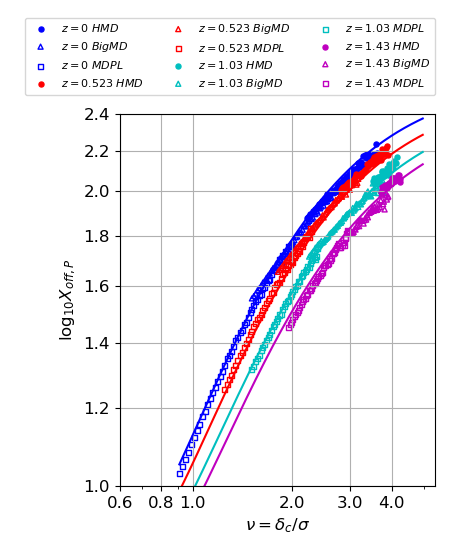
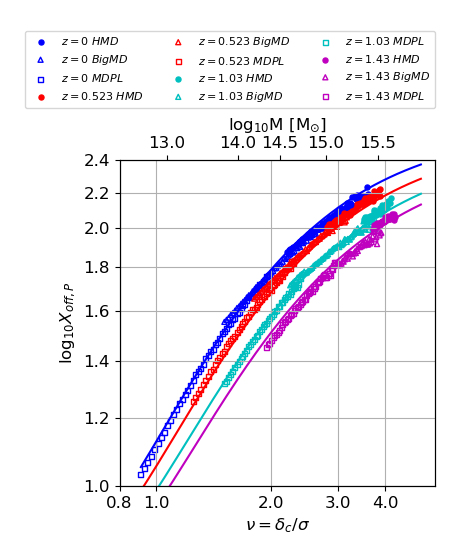
fixing mass axis in xoffp-sigma relation

diff --git a/physical/mean_relations/relations_xoff_simult.py b/physical/mean_relations/relations_xoff_simult.py
@@ -20,6 +20,7 @@ import matplotlib
 matplotlib.use('Agg')
 import matplotlib.pyplot as plt
 from matplotlib.ticker import ScalarFormatter
+from matplotlib.ticker import NullFormatter
 import astropy.units as u
 import astropy.constants as cc
 import astropy.io.fits as fits
@@ -289,17 +290,49 @@ def Xoff_log(x):
 
 ax1.set_xscale('log')
 ax1.set_yscale('log')
-ax1.set_xticks([0.6,0.8,1,2,3,4])
+ax1.set_xlim(left=0.8)
+ax1.set_xticks([0.8,1,2,3,4])
 ax1.set_yticks([1.0,1.2,1.4,1.6,1.8,2.0,2.2,2.4])
 ax1.set_ylim(1.0,2.4)
+
+h=cosmo.Hz(z=0)/100
+dc0 = peaks.collapseOverdensity(z = 0)
+def Mass_peak(x):
+    r=cosmo.sigma(dc0/x,z=0,inverse=True)
+    M=peaks.lagrangianM(r)/h
+    return np.log10(M)
+
+def peak_mass(x):
+    M=10**x
+    r=peaks.lagrangianR(M*h)
+    sigma=cosmo.sigma(r,z=0)
+    nu=dc/sigma
+    return nu
 
 ax1.xaxis.set_major_formatter(ScalarFormatter())
 ax1.yaxis.set_major_formatter(ScalarFormatter())
 ax1.ticklabel_format(axis='both', style='plain')
 
-ax1.legend(fontsize=8,bbox_to_anchor=(-0.3, 1.05, 1.3, .33), loc='lower left', ncol=3, mode="expand", borderaxespad=0.)
+ax1_sec = ax1.twiny()
+ax1_sec.set_xscale('log')
+ax1_sec.set_xlim(ax1.get_xlim())
+
+mass_values = np.array([13.0,14.0,14.5,15.0,15.5])
+new_tick_locations = peak_mass(mass_values)
+print(mass_values)
+print(new_tick_locations)
+ax1_sec.xaxis.set_major_formatter(NullFormatter())
+ax1_sec.xaxis.set_minor_formatter(NullFormatter())
+ax1_sec.tick_params(axis='x', which='minor', top=False)
+ax1.tick_params(axis='x', which='minor', bottom=False)
+ax1_sec.set_xticks(new_tick_locations)
+ax1_sec.set_xticklabels(mass_values)
+
+ax1.legend(fontsize=8,bbox_to_anchor=(-0.3, 1.16, 1.3, .3), loc='lower left', ncol=3, mode="expand", borderaxespad=0.)
 ax1.set_xlabel(r'$\nu = \delta_c/\sigma$', fontsize=12)
 ax1.set_ylabel(r'$\log_{10}X_{off,P}$', fontsize=12)
+ax1_sec.set_xlabel(r'$\log_{10}$M [M$_{\odot}$]', fontsize=12)
+ax1_sec.tick_params(labelsize=12)
 ax1.tick_params(labelsize=12)
 ax1.grid(True)
 fig1.tight_layout()
